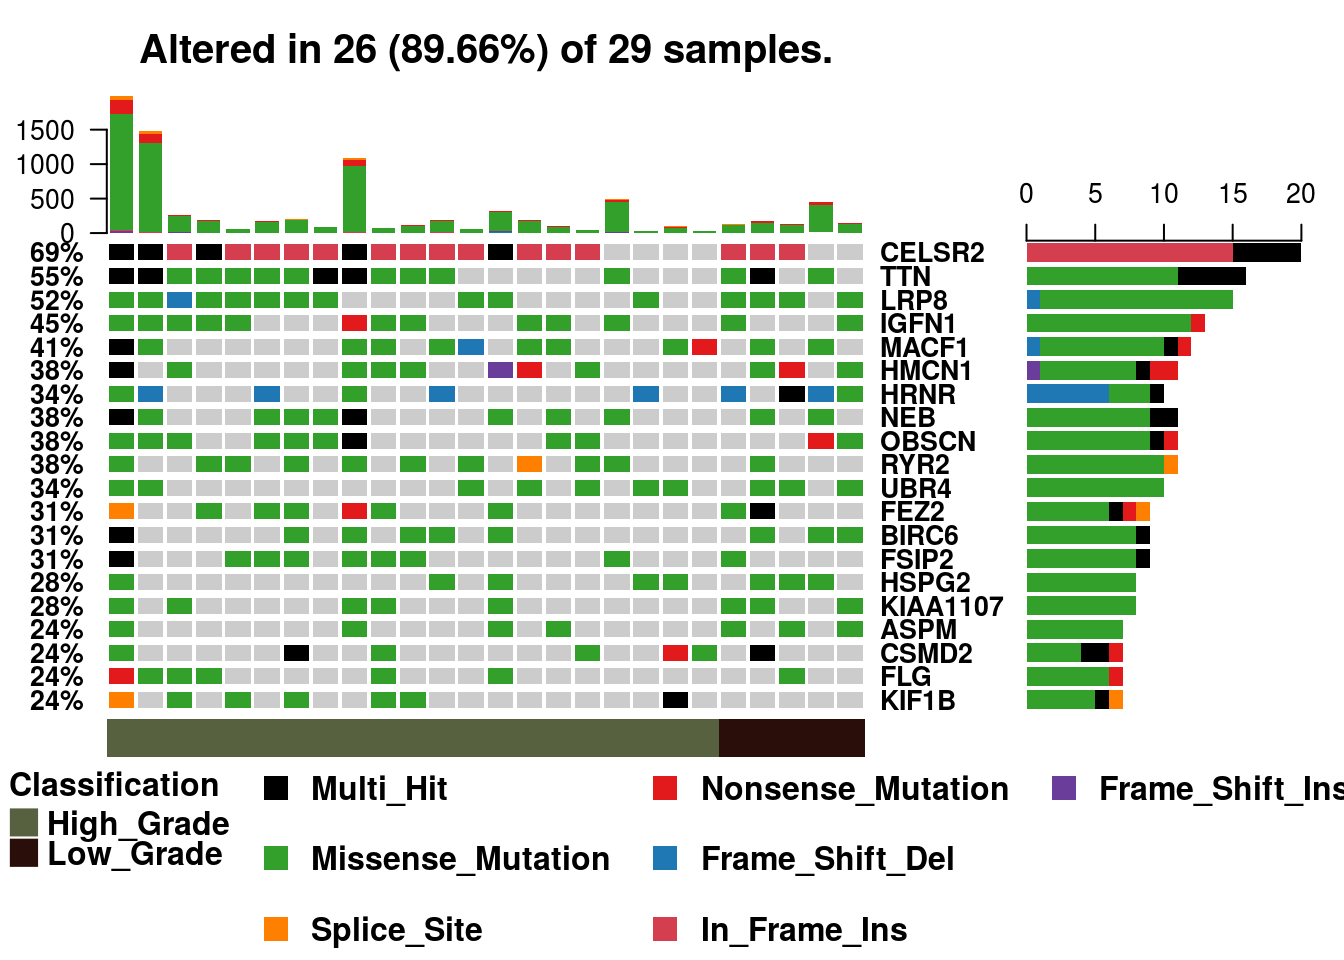
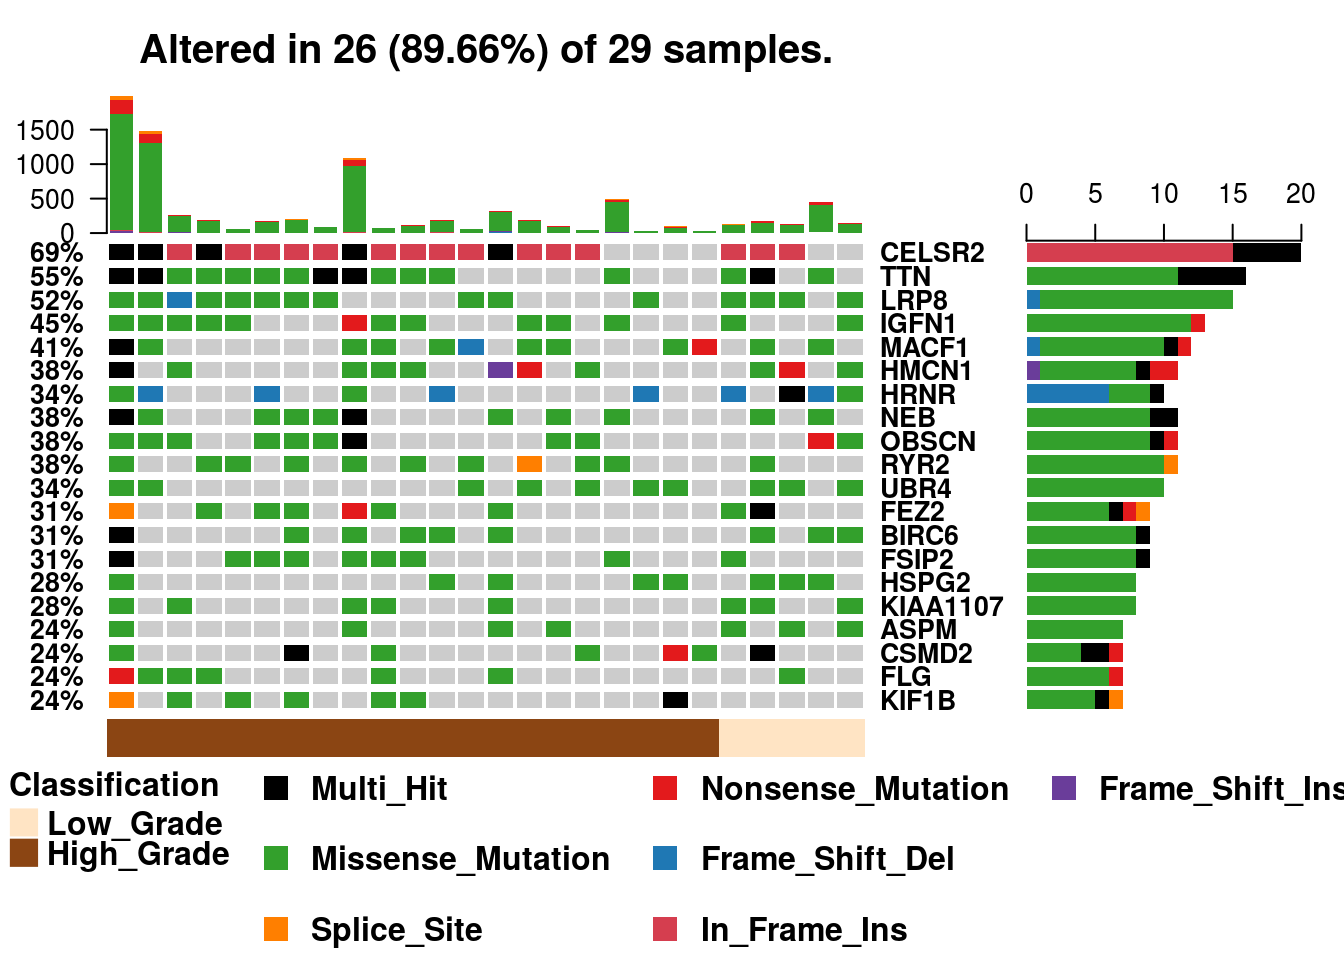
Build site.

Changed region(s): [[0.0625, 0.75, 0.6562, 0.8125], [0.0, 0.8438, 0.1875, 0.9062]]

diff --git a/docs/GBM_Analysis.html b/docs/GBM_Analysis.html
@@ -346,7 +346,7 @@ div.section {
 </li>
 <li>
 <details>
-<p><summary> <strong style="color:blue;">✔</strong> <strong>Repository version:</strong> <a href="https://github.com/melsiddieg/GBM_Results/tree/df28a6754f6d804e896b6671a7ce4f2868147fe4" target="_blank">df28a67</a> </summary></p>
+<p><summary> <strong style="color:blue;">✔</strong> <strong>Repository version:</strong> <a href="https://github.com/melsiddieg/GBM_Results/tree/3fa27c8077fdc20f9ac0a478b38059d23f292cc7" target="_blank">3fa27c8</a> </summary></p>
 Great! You are using Git for version control. Tracking code development and connecting the code version to the results is critical for reproducibility. The version displayed above was the version of the Git repository at the time these results were generated. <br><br> Note that you need to be careful to ensure that all relevant files for the analysis have been committed to Git prior to generating the results (you can use <code>wflow_publish</code> or <code>wflow_git_commit</code>). workflowr only checks the R Markdown file, but you know if there are other scripts or data files that it depends on. Below is the status of the Git repository when the results were generated:
 <pre><code>
 Ignored files:
@@ -383,6 +383,40 @@ Message
 </tr>
 </thead>
 <tbody>
+<tr>
+<td style="text-align:left;">
+Rmd
+</td>
+<td style="text-align:left;">
+<a href="https://github.com/melsiddieg/GBM_Results/blob/3fa27c8077fdc20f9ac0a478b38059d23f292cc7/analysis/GBM_Analysis.Rmd" target="_blank">3fa27c8</a>
+</td>
+<td style="text-align:left;">
+melsiddieg
+</td>
+<td style="text-align:left;">
+2018-10-19
+</td>
+<td style="text-align:left;">
+fixed annotation color
+</td>
+</tr>
+<tr>
+<td style="text-align:left;">
+html
+</td>
+<td style="text-align:left;">
+<a href="https://cdn.rawgit.com/melsiddieg/GBM_Results/35da55dcaf0eb3a767f653d7c8d9ebee7224eb75/docs/GBM_Analysis.html" target="_blank">35da55d</a>
+</td>
+<td style="text-align:left;">
+melsiddieg
+</td>
+<td style="text-align:left;">
+2018-10-19
+</td>
+<td style="text-align:left;">
+fixed Rmd file
+</td>
+</tr>
 <tr>
 <td style="text-align:left;">
 html
@@ -945,7 +979,7 @@ melsiddieg
 <div id="oncoplot" class="section level2">
 <h2>Oncoplot</h2>
 <pre class="r"><code>oncoplot(maf = brn, top = 20,clinicalFeatures = &#39;Classification&#39;,
-         sortByAnnotation = TRUE)</code></pre>
+         sortByAnnotation = TRUE,annotationColor = list(Classification=c(Low_Grade=c(&quot;#FFE4C4&quot;),High_Grade=c(&quot;#8B4513&quot;))))</code></pre>
 <p><img src="figure/GBM_Analysis.Rmd/oncoplot-1.png" width="672" style="display: block; margin: auto;" /></p>
 <details>
 <summary><em>Expand here to see past versions of oncoplot-1.png:</em></summary>
@@ -1428,11 +1462,11 @@ brn.sign = extractSignatures(mat = brn.tnm, nTry = 6, plotBestFitRes = FALSE)</c
 4:   70307.19 0.9956775       0.6838958        0.5295753  929.4269   490
 5:   62601.48 0.9961513       0.4684342        0.4485394  829.4023  1180
      cpu cpu.all nrun cophenetic dispersion silhouette.consensus
-1: 0.148   2.316   10  0.9997104  0.9760285            0.9927203
-2: 0.232   2.536   10  0.9987707  0.9589061            0.9500000
-3: 0.184   3.272   10  0.9951558  0.9406421            0.8942529
-4: 0.224   2.532   10  0.9375319  0.6689655            0.6622095
-5: 0.340   2.568   10  0.9497675  0.6773365            0.6510011</code></pre>
+1: 0.108   2.292   10  0.9997104  0.9760285            0.9927203
+2: 0.132   2.252   10  0.9987707  0.9589061            0.9500000
+3: 0.136   3.172   10  0.9951558  0.9406421            0.8942529
+4: 0.172   2.344   10  0.9375319  0.6689655            0.6622095
+5: 0.436   2.360   10  0.9497675  0.6773365            0.6510011</code></pre>
 <p><img src="figure/GBM_Analysis.Rmd/signature_analysis-1.png" width="672" style="display: block; margin: auto;" /></p>
 <details>
 <summary><em>Expand here to see past versions of signature_analysis-1.png:</em></summary>
